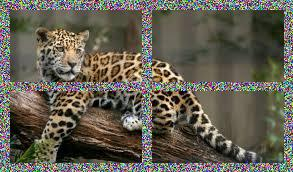
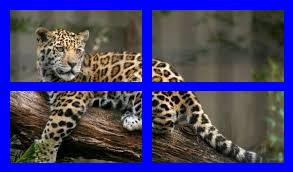
14-11-2024

diff --git a/14-11-2024 - Imagens/window.py b/14-11-2024 - Imagens/window.py
@@ -6,25 +6,13 @@ def window(pathImages,imagem):
     for i in range(imagem.width):
         for j in range(imagem.height):
             if j < 10 or j > imagem.height-10:
-                red=random.randint(0,255)
-                green=random.randint(0,255)
-                blue =random.randint(0,255)
-                pixelMap[i,j] = (red, green, blue)
+                pixelMap[i,j] = (0,0,255)
             elif j > ((imagem.height/2)-5) and j < ((imagem.height/2)+5):
-                red=random.randint(0,255)
-                green=random.randint(0,255)
-                blue =random.randint(0,255)
-                pixelMap[i,j] = (red, green, blue)
-            elif i < 10 or i > imagem.width-10:
-                red=random.randint(0,255)
-                green=random.randint(0,255)
-                blue =random.randint(0,255)           
-                pixelMap[i,j] = (red, green, blue)
+                pixelMap[i,j] = (0,0,255)
+            elif i < 10 or i > imagem.width-10:           
+                pixelMap[i,j] = (0,0,255)
             elif i > ((imagem.width/2)-5) and i < ((imagem.width/2)+5):
-                red=random.randint(0,255)
-                green=random.randint(0,255)
-                blue =random.randint(0,255)
-                pixelMap[i,j] = (red, green, blue)
+                pixelMap[i,j] = (0,0,255)
             
     imagem.show()
     imagem.save(pathImages+'window.jpg')

diff --git a/14-11-2024 - Imagens/imagemMoldura.py b/14-11-2024 - Imagens/imagemMoldura.py
@@ -17,7 +17,7 @@ def imagemModlura(pathImages,imagem):
                 pixelMap[i,j] = (red, green, blue)
             
     imagem.show()
-#imagem.save(pathImages+'teste.jpg')
+    imagem.save(pathImages+'teste.jpg')
 
 pathImages = ".\\Images\\"
 newSize = (400,400)
